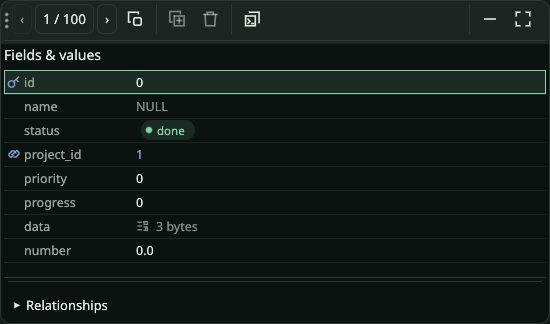
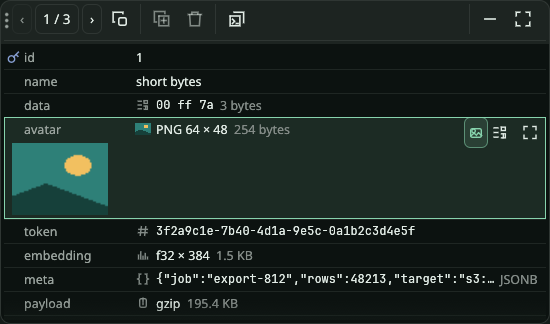
Tell the README as one picture and two lines per tile, with fresh captures
The README keeps its banner and opening story, now mentioning the flexible
layout, the blob viewers and the per-database sharing setting. Each of the
six tiles then gets one image and two lines, and a short paragraph says how
to run it. The workspace overview, the navigator section and the technical
paragraphs are gone from the README; the guide and contracts still hold them.

The tile images were captured again on 2026-11-27. Record now comes from
the blob viewer's image-preview capture, and the SQL crop reaches the
expanded tile's right edge. The captures notes describe both.

diff --git a/README.md b/README.md
@@ -8,102 +8,62 @@ The initial layout reflects that: relationships and tables in the middle, databa
 
 I needed to be able to push some rows into the database, so I added that function. (It's barely tested; it's not a function I need often.)
 
-Then I added a chat interface. Next I will add a more flexible layout: most often now, what I want to see is the chat, the SQL it's generating and the output of that SQL.
+Then I added a chat interface & a more flexible layout. And then some blob viewers.
 
 The chat drives the agent CLI you are already signed in to (Claude Code over stream-json, Codex over `codex app-server`, others over the Agent Client Protocol); TursoBench never handles credentials.
-The agent reaches the database only through TursoBench's MCP tools, limited to schema or bounded read-only queries by the sharing setting, and any SQL it proposes opens unrun in the SQL tile.
-
-![Full TursoBench workspace with schema navigation and all five tiles](docs/assets/ui/readme/workspace.png)
-
-Native Linux/Wayland workbench for inspecting, querying and editing local Turso databases.
-Five linked tiles combine relational navigation, typed data, schema metadata and SQL execution.
-Tiles sit in columns you arrange per database: drag one by its grip into another column, or past the last column to start a new one.
-
-Rust 1.95 · eframe/egui 0.37 · Turso 0.8.3 with native FTS enabled.
-Each database session serializes engine work on a dedicated thread with a current-thread Tokio runtime; the GUI holds no engine handles.
-Access is engine-enforced read-only by default; compatible Turso peers share experimental multiprocess WAL on Linux.
+The agent reaches the database only through TursoBench's MCP tools. Each DB has a setting for what is shared, and any SQL proposed opens unrun in the SQL tile.
 
 ## Relationships
 
 ![Relationships tile showing accounts, projects and items linked by foreign keys](docs/assets/ui/readme/relationships.png)
 
-Navigate the schema as a graph of tables, primary keys and declared foreign keys.
-Selecting a table updates the linked data and inspection tiles.
-
-Composite, self-referential and cyclic FKs are supported; relationships are never inferred from column names.
-Zoom, saved map layout and a list fallback support larger schemas.
+The tables, their primary keys and the foreign keys they declare, drawn as a map; nothing is guessed from column names.
+Click a table and the other tiles follow it.
 
 ## Table data
 
-![Table data tile with typed columns, foreign-key links and bounded row browsing](docs/assets/ui/readme/table-data.png)
+![Table data tile with typed columns, status values, foreign-key links and blob summaries](docs/assets/ui/readme/table-data.png)
 
-Browse, filter and sort rows; stage cell edits, inserts, deletes and spreadsheet paste/fill operations.
-FK cells navigate to related rows, while selection supports copying and numeric summaries.
-
-Virtualized rendering and bounded fetch windows use keyset paging where supported, with OFFSET fallback.
-Eligible primary-key tables commit staged edits atomically, checking original values and storage classes for conflicts.
+The rows of the selected table, with filters, sorting and foreign keys you can follow to the parent row.
+This is where rows get pushed in: edits, inserts, deletes and pastes are staged first, then committed together.
 
 ## Record
 
-![Record tile showing the selected row's fields, typed values and relationships section](docs/assets/ui/readme/record.png)
+![Record tile showing one row's fields, with each blob summarised and an image previewed in place](docs/assets/ui/readme/record.png)
 
-Inspect and edit the selected row field by field, including columns hidden in the grid.
-Each blob says what it is (image, text, UUID, JSONB, vector, compressed contents and more);
-the selected one previews in place, and Enter opens it as a paged hex, text, tree, image or
-vector view with find, copy-as and save. Relationships is one line at the foot of the tile.
-
-Record shares live rows and staged edits with Table data; NULL, text, numeric and BLOB values retain their types.
-Related-row lookups use declared FK mappings, including composite keys and parent collation/affinity.
+One row, field by field, including the columns that don't fit in the grid.
+Each blob says what it is (image, UUID, vector, JSONB, gzip and more) and previews in place; Enter opens it in a full viewer.
 
 ## Structure
 
 ![Structure tile showing column types, primary-key and foreign-key metadata](docs/assets/ui/readme/structure.png)
 
-Inspect columns, indexes, foreign keys, triggers and original DDL for the selected object.
-Metadata stays linked to table selection while the tile scrolls independently.
-
-Catalog and PRAGMA inspection expose declared types, key order, defaults and FK actions.
-Schema comparison and guarded additive migration drafts are available separately through Checks → Compare schemas.
+The columns, indexes, foreign keys, triggers and original DDL of the selected table.
+It follows whatever is selected in the other tiles and scrolls on its own.
 
 ## SQL
 
 ![Expanded SQL tile with a history-to-snapshot join and twelve typed result rows](docs/assets/ui/readme/sql.png)
 
-Execute a selection, statement or script and inspect linked results within the same tile.
-The editor provides syntax highlighting, completion, EXPLAIN and explicit transaction controls.
-
-Typed positional/named JSON bindings are validated against the matching Turso parser; scripts support sequential or atomic execution.
-A persistent editor connection retains transactions; separate browse reads see committed state.
-Bounded result delivery and cooperative statement deadlines report execution and transaction outcomes separately.
-
-## Database navigator
-
-![Database navigator with schema tree, search, access status and database tools](docs/assets/ui/readme/navigator.png)
-
-Switch between open databases, search objects and columns, and access query history, saved queries and diagnostics.
-Discover local files or open an explicit path with a per-file access choice.
-
-Each workspace retains independent drafts, results, layout and transaction state; duplicate file identities focus the existing session.
-Database admission uses a configurable count and estimated memory budget; switching never silently reopens a database writable.
+An editor with highlighting, completion and EXPLAIN, with the results underneath in the same tile.
+Run a selection, a statement or a whole script; transactions start and commit only when you say so.
 
 ## Assistant
 
 ![Assistant tile with a seeded conversation, database tool calls and an unexecuted SQL proposal](docs/assets/ui/readme/assistant.png)
 
-Use Claude Code, Codex or ACP agents to inspect schema, query shared data and propose SQL.
-One picker chooses the agent, model and reasoning level; sharing controls live in its header. The assistant is a tile: it moves, stacks, folds and expands to the workspace like the others. The screenshot uses a seeded conversation.
-
-MCP tools expose metadata, bounded reads and SQL proposals according to the selected sharing scope.
-Queries pass parser checks and run on a dedicated `query_only` connection, capped at 200 rows / 256 KiB, or the database's row limit / 2 MiB when it shares complete results.
-Proposed SQL opens unexecuted in the editor for explicit review and execution.
+A chat with the agent of your choice: one picker sets the agent, model and reasoning level. (The screenshot is a seeded conversation.)
+It reads the schema and, if the database shares results, runs bounded read-only queries; anything else it can only propose.
 
 ## Run
+
+TursoBench is a Linux/Wayland preview, built with Rust 1.95. With Nix, the pinned shell brings everything it needs:
 
 ```sh
 nix develop -c cargo run --locked -p tursobench-ui -- /path/to/database.db
 ```
 
-Linux preview; no cloud sync or encryption. Independent project.
+Without Nix, the same `cargo run` works with your own toolchain. Leave out the path to open a database from the sidebar instead; databases open read-only unless you ask for more.
 
 [Guide](docs/guide.md) · [Compatibility](contracts/engine-compatibility.md) ·
 [Assistant](contracts/assistant.md) · [Captures](docs/assets/ui/README.md#readme-overview) ·

diff --git a/docs/assets/ui/README.md b/docs/assets/ui/README.md
@@ -2,7 +2,7 @@
 
 ## README overview
 
-The `readme/` overview and tile images were captured on 2026-11-19, with tiles
+The `readme/` overview and tile images were captured on 2026-11-27, with tiles
 in movable columns and the assistant as a tile, under
 headless Weston/Mesa, using disposable synthetic databases and isolated
 preferences. They use the application's explicit Dark mode, charcoal
@@ -12,9 +12,13 @@ tile and panel images are rectangular crops with no scaling, compositing or
 retouching. No personal database is opened.
 
 - `workspace.png`: five tiles, schema navigation, typed values and foreign keys
-  at 1800 × 1000.
-- `relationships.png`, `table-data.png`, `record.png`, `structure.png` and
-  `navigator.png`: individual tiles/panel cropped from the overview.
+  at 1800 × 1000. It is the source of the crops and is not part of the current
+  README tour, which shows one image per tile.
+- `relationships.png`, `table-data.png` and `structure.png`: individual tiles
+  cropped from the overview. `navigator.png` is cropped the same way and is not
+  part of the current README tour.
+- `record.png`: the record tile cropped from the blob viewer's image-preview
+  capture, with each blob summarised and the selected image previewed in place.
 - `sql.png`: expanded SQL tile with a real join and twelve result rows, using
   a second synthetic fixture with 120 snapshots and 120 history records.
 - `assistant.png`: the assistant tile cropped from a 1366 × 768 capture, with
@@ -24,7 +28,7 @@ retouching. No personal database is opened.
   update, original-value predicates and typed bindings at 1366 × 768. The edit
   was never committed. It is not part of the current README tour.
 
-All three capture passes verify the native Wayland backend and clean session
+All four capture passes verify the native Wayland backend and clean session
 close. Reproduce from the repository root with empty GTK theme inputs:
 
 ```sh
@@ -53,6 +57,7 @@ with sqlite3.connect(fixture) as db:
 PY
 XDG_CONFIG_HOME="$capture_config" bash scripts/capture-readme.sh \
   target/readme-refresh/session.db target/readme-refresh/sql
+XDG_CONFIG_HOME="$capture_config" bash scripts/capture-blob-viewer.sh target/readme-refresh/blob
 rm -rf "$capture_config"
 ```
 
@@ -74,13 +79,14 @@ with Image.open(out / 'workspace.png') as image:
     for name, box in {
         'relationships': (280, 8, 1216, 372),
         'table-data': (280, 380, 1216, 958),
-        'record': (1224, 8, 1774, 332),
         'structure': (1224, 340, 1774, 650),
         'navigator': (0, 0, 272, 1000),
     }.items():
         image.crop(box).save(out / f'{name}.png', optimize=True)
+with Image.open(root / 'blob/blob-image-preview.png') as image:
+    image.crop((1224, 8, 1774, 332)).save(out / 'record.png', optimize=True)
 with Image.open(root / 'sql/sql-results.png') as image:
-    image.crop((280, 8, 1774, 958)).save(out / 'sql.png', optimize=True)
+    image.crop((280, 8, 1792, 958)).save(out / 'sql.png', optimize=True)
 with Image.open(root / 'assistant/assistant-conversation.png') as image:
     image.crop((995, 8, 1358, 726)).save(out / 'assistant.png', optimize=True)
 PY
